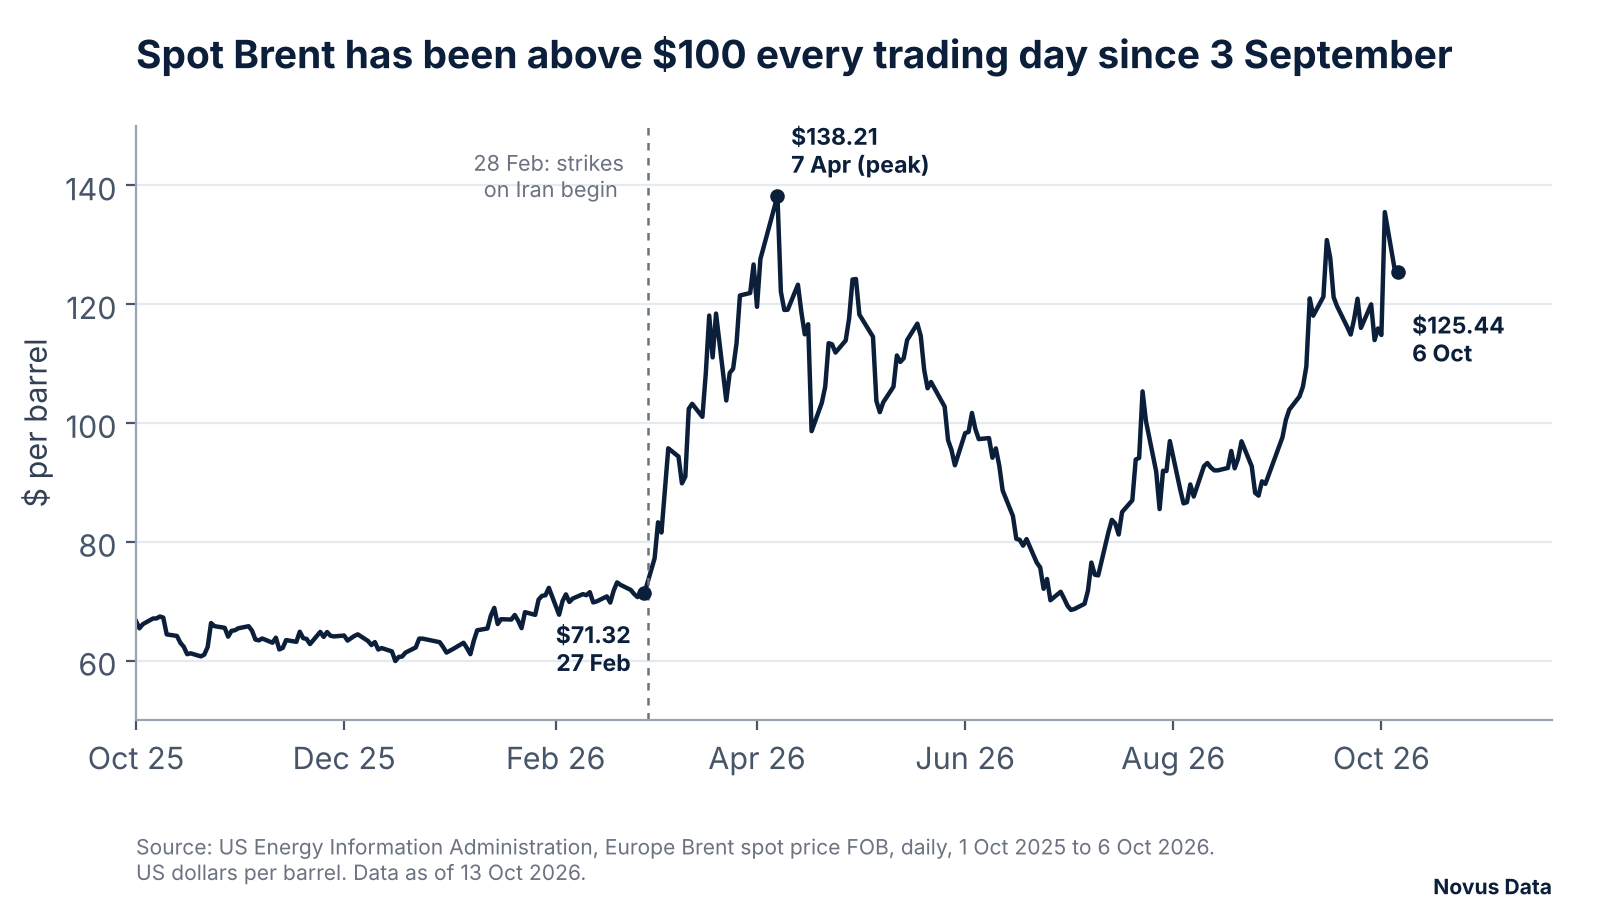
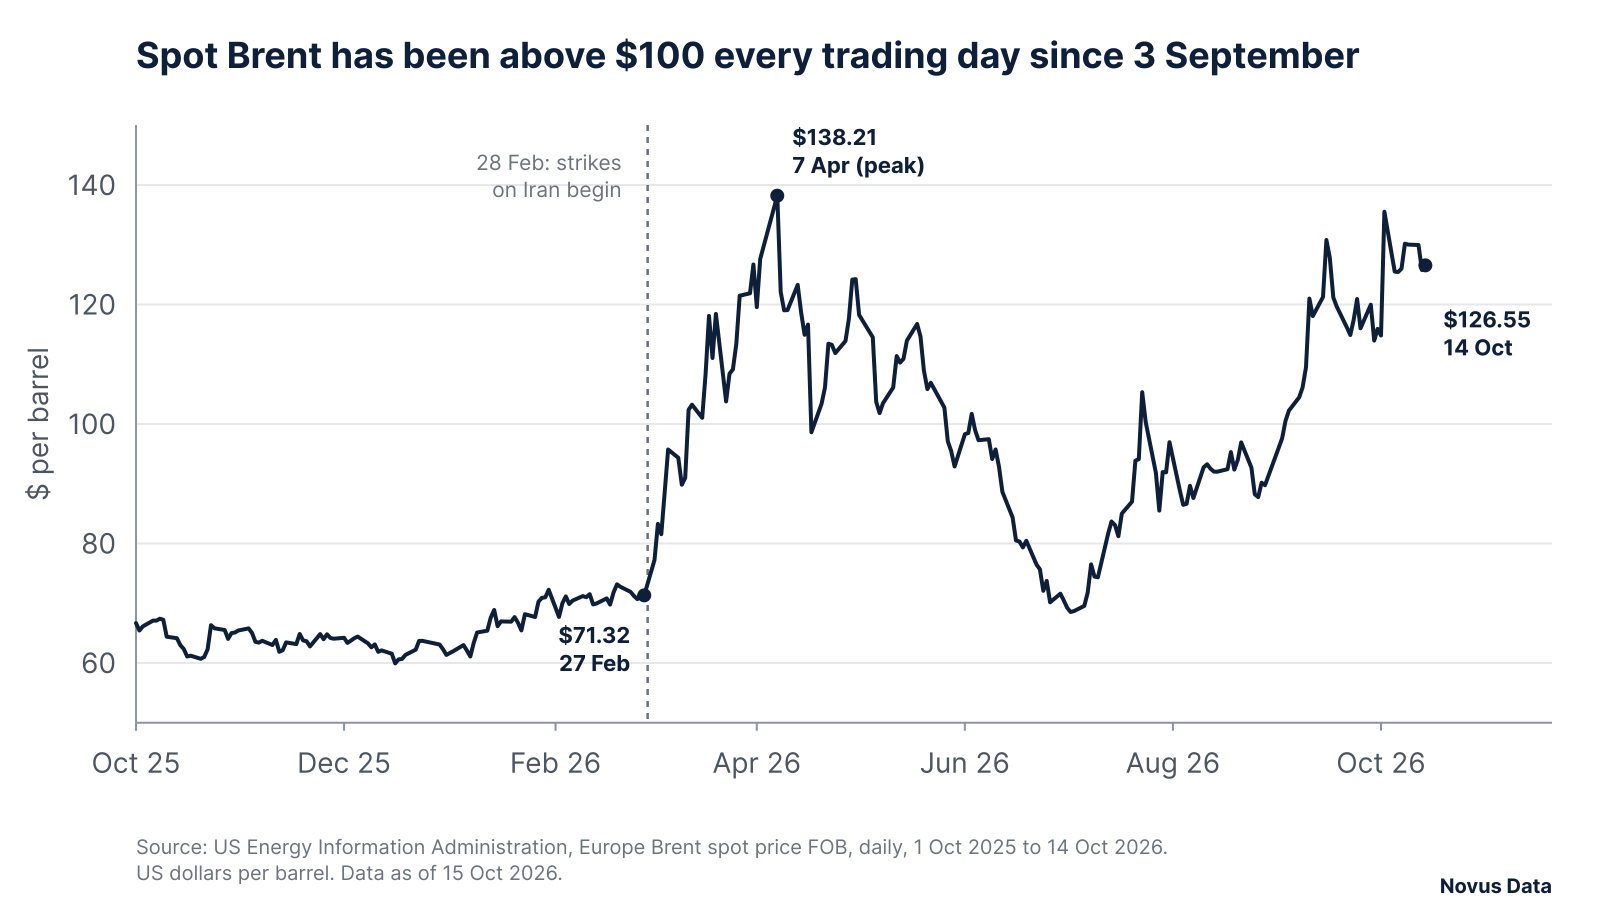
content: oil article to 14 October EIA data, and record the 19-article confirmation
Gavin asked (15 October) for the oil article's EIA figures to be brought
up to date, with a stop condition if the new data contradicted the
headline. It does not: Brent spot was $126.55 on 14 October (EIA table
released 15 October; FRED DCOILBRENTEU agrees).

Before -> after:
- Brent spot: $125.44 on 6 October -> $126.55 on 14 October
- Above the 27 February level ($71.32): 76% -> 77%
- Gulf Coast jet fuel: $4.34 on 6 October -> $4.56 on 14 October
- Chart, caption, alt text and the two EIA source lines: data to
  14 October 2026
Unchanged and still true: peak $138.21 on 7 April, $135.51 on
2 October, above $100 every trading day since 3 September, below $70 in
early July. The STEO figures (6 October release) are a dated forecast
and stay as written.

c01_brent.png is redrawn from the same EIA series in the original's
layout; it matches the original line point for point to 6 October.

DECISIONS.md records Gavin's confirmation that all 19 articles go live,
and that his updated 14 October files had nothing the live files lacked.

Claude-Session: https://claude.ai/code/session_01EukYAgbFuoPqY9p2KCEsaa

diff --git a/content/issues/0001-oil-spot-price-tops-125-gulf-barrels-shut-in.md b/content/issues/0001-oil-spot-price-tops-125-gulf-barrels-shut-in.md
@@ -3,7 +3,7 @@ issueNumber: null
 title: "Spot Brent tops $125 as Gulf barrels stay shut in"
 slug: "oil-spot-price-tops-125-gulf-barrels-shut-in"
 publishedAt: "2026-10-14"
-excerpt: "Spot Brent was 76% above its pre-war level on 6 October 2026. The EIA expects a $105 fourth-quarter average, but oil for prompt delivery trades far above futures."
+excerpt: "Spot Brent was 77% above its pre-war level on 14 October 2026. The EIA expects a $105 fourth-quarter average, but oil for prompt delivery trades far above futures."
 beehiivUrl: null
 beehiivGuid: null
 coverImageUrl: null
@@ -13,17 +13,17 @@ tags:
   - "Energy and bunker costs"
 ---
 <h2>What happened</h2>
-<p>The spot price of Brent crude was $125.44 a barrel on 6 October 2026, according to <a href="https://www.eia.gov/dnav/pet/hist/RBRTED.htm" rel="noopener noreferrer" target="_blank">US Energy Information Administration data</a>. That is 76% above the $71.32 recorded on 27 February, the last trading day before the United States and Israel launched strikes on Iran on 28 February. Spot Brent peaked at $138.21 on 7 April and reached $135.51 on 2 October.</p>
+<p>The spot price of Brent crude was $126.55 a barrel on 14 October 2026, according to <a href="https://www.eia.gov/dnav/pet/hist/RBRTED.htm" rel="noopener noreferrer" target="_blank">US Energy Information Administration data</a>. That is 77% above the $71.32 recorded on 27 February, the last trading day before the United States and Israel launched strikes on Iran on 28 February. Spot Brent peaked at $138.21 on 7 April and reached $135.51 on 2 October.</p>
 <p>In its <a href="https://www.eia.gov/outlooks/steo/report/global_oil.php" rel="noopener noreferrer" target="_blank">Short-Term Energy Outlook</a> of 6 October, the EIA said Brent averaged $114 in September and forecast a fourth-quarter average of $105, $14 higher than a month earlier. It expects $96 for 2026 as a whole and $84 in 2027, falling to $74 by the last quarter of 2027 as Gulf production recovers and stocks are rebuilt.</p>
 <p>The agency estimates that crude production shut in by the Middle East disruption averaged 4.8 million barrels a day (b/d) in September, down from a peak of 10.9 million b/d in May, and assumes 4.5 million b/d stays offline in the fourth quarter. The International Energy Agency (IEA) gave a higher figure in its September Oil Market Report: more than 10 million b/d of Gulf production remained shut in, <a href="https://www.worldoil.com/news/2026/9/11/iea-cuts-2026-oil-supply-outlook-as-gulf-recovery-slips-to-2027/" rel="noopener noreferrer" target="_blank">World Oil reported</a>. The two estimates cover different dates and may use different definitions (inferred).</p>
-<figure><img src="/article-charts/oil-spot-price-tops-125-gulf-barrels-shut-in/c01_brent.png" alt="Line chart of the daily Brent crude spot price from October 2025 to 6 October 2026. It was $71.32 on 27 February, peaked at $138.21 on 7 April, fell below $70 in early July and was $125.44 on 6 October, above $100 every trading day since 3 September." width="1600" height="900" loading="lazy" decoding="async" /><figcaption>Brent crude spot price, daily, October 2025 to 6 October 2026. Source: US Energy Information Administration.</figcaption></figure>
+<figure><img src="/article-charts/oil-spot-price-tops-125-gulf-barrels-shut-in/c01_brent.png" alt="Line chart of the daily Brent crude spot price from October 2025 to 14 October 2026. It was $71.32 on 27 February, peaked at $138.21 on 7 April, fell below $70 in early July and was $126.55 on 14 October, above $100 every trading day since 3 September." width="1600" height="900" loading="lazy" decoding="async" /><figcaption>Brent crude spot price, daily, October 2025 to 14 October 2026. Source: US Energy Information Administration.</figcaption></figure>
 <h2>Why it matters</h2>
 <p>The gap between spot and futures prices suggests the shortage is in oil available for prompt delivery (inferred). On 1 October, Brent crude closed at $102.31 a barrel, a benchmark price set in the futures market, according to <a href="https://247wallst.com/investing/2026/10/02/brent-oil-is-back-above-100-as-a-third-aircraft-carrier-heads-to-the-middle-east/" rel="noopener noreferrer" target="_blank">24/7 Wall St</a>, while spot Brent was $114.82, a gap of about $12.50. Buyers are paying a premium for oil they can load now over oil for later delivery, a pattern known as backwardation. Brent crude was $108.04 a barrel at 6:45 a.m. Eastern on 12 October, <a href="https://fortune.com/article/price-of-oil-10-12-2026/" rel="noopener noreferrer" target="_blank">Fortune reported</a>.</p>
 <p>The premium reaches refiners first, then fuel buyers (inferred). The EIA said global inventories fell by 1.9 million b/d on average in the third quarter and expects a further 0.7 million b/d draw in the fourth. It also said tanker rates reached record levels in September, as insurance costs rose and longer routes tied up ships.</p>
 <p>Bypass routes cover only part of the gap. Before it was attacked, Saudi Arabia's East-West pipeline carried more than 5 million b/d to the Red Sea port of Yanbu, according to the EIA. After repairs, it had partly resumed flows as of 22 September, the EIA said. Recorded tanker transits through the Strait of Hormuz averaged about one a day in September, against about 48 a day in 2025, according to <a href="https://portwatch.imf.org/" rel="noopener noreferrer" target="_blank">IMF PortWatch</a> daily chokepoint transit calls.</p>
 <h2>Who it reaches</h2>
 <p><em>Refiners that rely on Gulf crude (sector).</em> Gulf oil exports in August were about 13 million b/d, nearly half of pre-war levels, according to the IEA's September report. Refiners that cannot replace those barrels pay the spot premium or cut runs. Confidence: reported for export volumes, inferred for refiners. Source: IEA via World Oil, 11 September 2026.</p>
-<p><em>Airlines (sector).</em> US Gulf Coast jet fuel was $4.34 a gallon on 6 October, against $2.43 on 27 February, according to <a href="https://www.eia.gov/dnav/pet/hist/EER_EPJK_PF4_RGC_DPGD.htm" rel="noopener noreferrer" target="_blank">EIA data</a>. The August consumer price index showed airline fares up 23.4% on the year. Confidence: reported for prices, inferred for the link between them. Sources: EIA; <a href="https://www.bls.gov/news.release/archives/cpi_09112026.htm" rel="noopener noreferrer" target="_blank">BLS</a>, 11 September 2026.</p>
+<p><em>Airlines (sector).</em> US Gulf Coast jet fuel was $4.56 a gallon on 14 October, against $2.43 on 27 February, according to <a href="https://www.eia.gov/dnav/pet/hist/EER_EPJK_PF4_RGC_DPGD.htm" rel="noopener noreferrer" target="_blank">EIA data</a>. The August consumer price index showed airline fares up 23.4% on the year. Confidence: reported for prices, inferred for the link between them. Sources: EIA; <a href="https://www.bls.gov/news.release/archives/cpi_09112026.htm" rel="noopener noreferrer" target="_blank">BLS</a>, 11 September 2026.</p>
 <p><em>US crude producers (sector).</em> The EIA expects US output to rise from 13.7 million b/d in 2025 to 13.9 million b/d in 2026 and 14.3 million b/d in 2027. Confidence: reported. Source: EIA, 6 October 2026.</p>
 <h2>What would change this view</h2>
 <ul>
@@ -33,13 +33,13 @@ tags:
 </ul>
 <h2>Sources</h2>
 <ol>
-<li>Europe Brent spot price FOB, daily. US Energy Information Administration, data to 6 October 2026. <a href="https://www.eia.gov/dnav/pet/hist/RBRTED.htm" rel="noopener noreferrer" target="_blank">link</a></li>
+<li>Europe Brent spot price FOB, daily. US Energy Information Administration, data to 14 October 2026. <a href="https://www.eia.gov/dnav/pet/hist/RBRTED.htm" rel="noopener noreferrer" target="_blank">link</a></li>
 <li>Short-Term Energy Outlook, global oil markets. EIA, 6 October 2026. <a href="https://www.eia.gov/outlooks/steo/report/global_oil.php" rel="noopener noreferrer" target="_blank">link</a></li>
 <li>Short-Term Energy Outlook. EIA, 6 October 2026. <a href="https://www.eia.gov/outlooks/steo/" rel="noopener noreferrer" target="_blank">link</a></li>
 <li>IEA cuts 2026 oil supply outlook as Gulf recovery slips to 2027. World Oil, 11 September 2026. <a href="https://www.worldoil.com/news/2026/9/11/iea-cuts-2026-oil-supply-outlook-as-gulf-recovery-slips-to-2027/" rel="noopener noreferrer" target="_blank">link</a></li>
 <li>Brent oil is back above $100 as a third aircraft carrier heads to the Middle East. 24/7 Wall St, 2 October 2026. <a href="https://247wallst.com/investing/2026/10/02/brent-oil-is-back-above-100-as-a-third-aircraft-carrier-heads-to-the-middle-east/" rel="noopener noreferrer" target="_blank">link</a></li>
 <li>Current price of oil as of October 12, 2026. Fortune, 12 October 2026. <a href="https://fortune.com/article/price-of-oil-10-12-2026/" rel="noopener noreferrer" target="_blank">link</a></li>
-<li>US Gulf Coast kerosene-type jet fuel spot price, daily. EIA, data to 6 October 2026. <a href="https://www.eia.gov/dnav/pet/hist/EER_EPJK_PF4_RGC_DPGD.htm" rel="noopener noreferrer" target="_blank">link</a></li>
+<li>US Gulf Coast kerosene-type jet fuel spot price, daily. EIA, data to 14 October 2026. <a href="https://www.eia.gov/dnav/pet/hist/EER_EPJK_PF4_RGC_DPGD.htm" rel="noopener noreferrer" target="_blank">link</a></li>
 <li>Consumer Price Index, August 2026. BLS, 11 September 2026. <a href="https://www.bls.gov/news.release/archives/cpi_09112026.htm" rel="noopener noreferrer" target="_blank">link</a></li>
 <li>Iran says Strait of Hormuz to remain closed until US meets conditions. Al Jazeera, 4 October 2026. <a href="https://www.aljazeera.com/news/2026/10/4/iran-says-strait-of-hormuz-to-remain-closed-until-us-meets-conditions" rel="noopener noreferrer" target="_blank">link</a></li>
 <li>OPEC+ press release. OPEC, 4 October 2026. <a href="https://www.opec.org/pr-detail/616-4-october-2026.html" rel="noopener noreferrer" target="_blank">link</a></li>

diff --git a/DECISIONS.md b/DECISIONS.md
@@ -60,6 +60,20 @@ articles, each dated 14 October 2026.
   release and `arowsom-oss` approves it before it merges, per the register
   rule above.
 
+## All 19 articles confirmed
+
+Confirmed by `Novous-Data` on 2026-10-15, by email: he is happy for the
+Articles section to be live (it has been since 2026-10-14, see "Articles go
+live") and for all 19 articles to be published.
+
+- His updated files of 14 October were compared sentence by sentence with
+  the live versions. They had nothing the live files lacked; the live files
+  were newer (the September real-earnings, urea and Suez corrections).
+- The oil article's EIA figures were updated before this confirmation, to
+  14 October 2026 data (Brent spot $126.55, Gulf Coast jet fuel $4.56), and
+  its chart redrawn from the same EIA series. The headline and argument
+  still held, so no wording changed.
+
 ## Launch
 
 Decided by `arowsom-oss` on 2026-09-23, under the rule above. A big change
